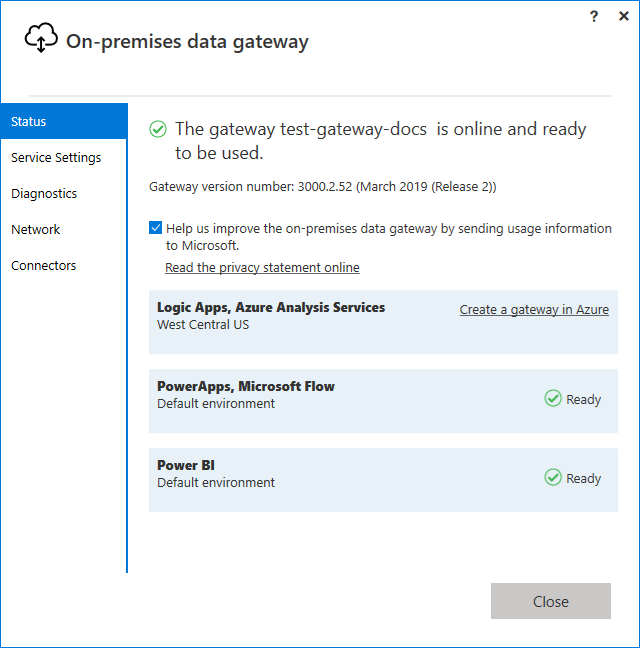
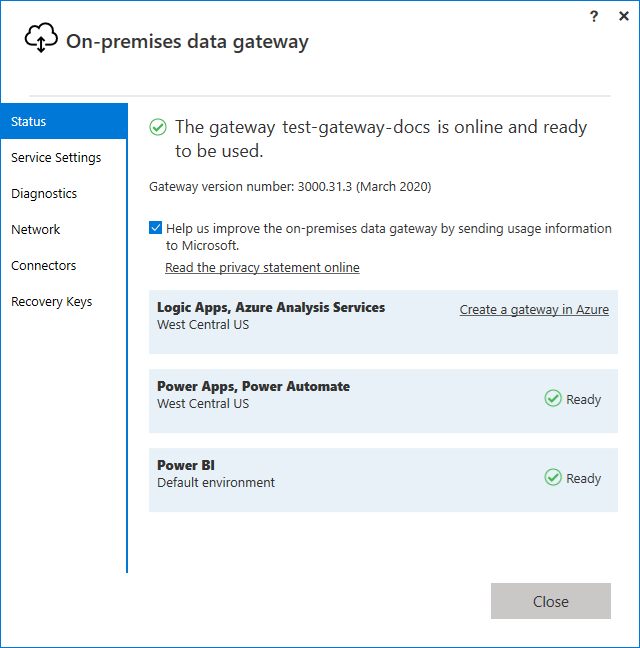
Added updates per dev input

diff --git a/data-integration/gateway/service-gateway-install.md b/data-integration/gateway/service-gateway-install.md
@@ -16,13 +16,11 @@ LocalizationGroup: Gateways
 
 # Install an on-premises data gateway
 
-[!INCLUDE [gateway-rewrite](../includes/gateway-rewrite.md)]
-
 An on-premises data gateway is software that you install in an on-premises network. The gateway facilitates access to data in that network.
 
-As we explain in the [overview](service-gateway-onprem.md), you can install a gateway either in personal mode, which applies to Power BI only, or in standard mode. We recommend standard mode. In that mode, you can install a standalone gateway or add a gateway to a cluster, which we recommend for high availability.
+As we explain in the [overview](service-gateway-onprem.md#types-of-gateways), you can install a gateway either in personal mode, which applies to Power BI only, or in standard mode. We recommend standard mode. In that mode, you can install a standalone gateway or add a gateway to a cluster, which we recommend for high availability.
 
-In this article, we show you how to install a standard gateway and then add another gateway to create a cluster.
+In this article, we show you how to install a standard gateway, how to add another gateway to create a cluster, and how to install a personal mode gateway.
 
 ## Requirements
 
@@ -49,28 +47,13 @@ In this article, we show you how to install a standard gateway and then add anot
 * If a gateway uses a wireless network, its performance might suffer.
 * You can install up to two gateways on a single computer: one running in personal mode and the other running in standard mode. You can't have more than one gateway running in the same mode on the same computer.
 
-## Download and install a gateway
+## Download and install a standard gateway
 
 Because the gateway runs on the computer that you install it on, be sure to install it on a computer that's always turned on. For better performance and reliability, we recommend that the computer is on a wired network rather than a wireless one.
 
-1. [Download the gateway](https://go.microsoft.com/fwlink/?LinkId=820925&clcid=0x409).
+1. [Download the standard gateway](https://go.microsoft.com/fwlink/?LinkId=2116849&clcid=0x409).
 
-1. In the gateway installer, select **Next**.
-
-    ![Starting gateway installation](media/service-gateway-install/gateway-installer.png)
-
-1. Select **On-premises data gateway (recommended)** > **Next**.
-
-    ![Choosing the gateway type](media/service-gateway-install/gateway-type.png)
-
-    > [!NOTE]
-    > The **On-premises data gateway (personal mode)** option can be used only with Power BI. For more information on installation, management, and use of personal gateways, see [Use personal gateways in Power BI](/power-bi/service-gateway-personal-mode).
-
-1. Select **Next**.
-
-    ![Reminder before you install](media/service-gateway-install/laptop-reminder.png)
-
-1. Keep the default installation path, accept the terms of use, and then select **Install**.
+1. In the gateway installer, keep the default installation path, accept the terms of use, and then select **Install**.
 
     ![Installing to the default installation path](media/service-gateway-install/install-path.png)
 
@@ -97,8 +80,8 @@ Because the gateway runs on the computer that you install it on, be sure to inst
 
     Also note that you can change the region that connects the gateway to cloud services. For more information, see [Set the data center region](service-gateway-data-region.md).
 
-> [!NOTE]
-> For soverign clouds, we currently only support installing gateways in the default PowerBI region of your tenant. The region picker on the installer is only supported for Public cloud.
+    > [!NOTE]
+    > For soverign clouds, we currently only support installing gateways in the default PowerBI region of your tenant. The region picker on the installer is only supported for Public cloud.
 
 1. Review the information in the final window. Because this example uses the same account for Power BI, Power Apps, and Power Automate, the gateway is available for all three services. Select **Close**.
 
@@ -122,6 +105,27 @@ To create high-availability gateway clusters, you need the November 2017 update 
 1. After you sign in to your Office 365 organization account, register the gateway. Select **Add to an existing cluster**. In the **Available gateway clusters** list, select the *primary gateway*, which is the first gateway you installed. Enter the recovery key for that gateway. Select **Configure**.
 
     ![Adding a gateway to a cluster](media/service-gateway-install/add-cluster.png)
+
+## Download and install a personal mode gateway
+
+1. [Download the personal mode gateway](https://go.microsoft.com/fwlink/?LinkId=2116848&clcid=0x409).
+
+1. In the gateway installer, enter the default installation path, accept the terms of use, and then select **Install**.
+
+    ![Installing personal mode to the installation path](media/service-gateway-install/install-path-personal.png)
+
+1. Enter the email address for your Office 365 organization account, and then select **Sign in**.
+
+    ![Entering your personal mode email address](media/service-gateway-install/email-address-personal.png)
+
+    > [!NOTE]
+    > You need to sign in with either a work account or a school account. This account is an *organization account*. If you signed up for an Office 365 offering and didn't supply your work email address, your address might look like nancy\@contoso.onmicrosoft.com. Your account is stored within a tenant in Azure AD. In most cases, your Azure AD account’s User Principal Name (UPN) will match the email address.  
+
+    The gateway is associated with your Office 365 organization account. You manage gateways from within the associated service.
+
+1.  You're now signed in to your account. Select **Close**.
+
+    ![Gateway summary](media/service-gateway-install/summary-screen-personal.png)
 
 ## Next steps
 

diff --git a/data-integration/gateway/service-gateway-onprem.md b/data-integration/gateway/service-gateway-onprem.md
@@ -15,7 +15,8 @@ LocalizationGroup: Gateways
 
 # What is an on-premises data gateway?
 
-[!INCLUDE [gateway-rewrite](../includes/gateway-rewrite.md)]
+>[!Note]
+Currently, Microsoft actively supports only the last six releases of the on-premises data gateway.
 
 The on-premises data gateway acts as a bridge. It provides quick and secure data transfer between on-premises data, which is data that isn't in the cloud, and several Microsoft cloud services. These services include Power BI, Power Apps, Power Automate, Azure Analysis Services, and Azure Logic Apps.
 
@@ -51,6 +52,20 @@ There are four main steps for using a gateway.
   - Read operations have a 2-MB request limit and an 8-MB compressed data response limit.
 - While using the gateway with Power BI in Direct Query Mode, there is a 16-MB uncompressed data response limit.
 - For information about installation considerations, see [Related considerations](service-gateway-install.md#related-considerations).
+
+## Gateway documentation
+
+This document contains general information about the on-premises data gateway that applies to all services that the gateway supports. You can obtain more on-premises data gateway information for specific products by visiting the following product-specific sites.
+
+* [On-premises data gateway in-depth - Power BI](https://docs.microsoft.com/en-us/power-bi/service-gateway-onprem-indepth/)
+
+* [Using an on-premises data gateway in Power Platform Dataflows](https://docs.microsoft.com/en-us/powerapps/maker/common-data-service/using-dataflows-with-on-premises-data)
+
+* [Manage connections in Power Automate](https://docs.microsoft.com/en-us/power-automate/add-manage-connections)
+
+* [Connect to on-premises data sources from Azure Logic Apps](https://docs.microsoft.com/en-us/azure/logic-apps/logic-apps-gateway-connection)
+
+* [Connecting to on-premises data sources with On-premises data gateway - Azure Analysis Services](https://docs.microsoft.com/en-us/azure/analysis-services/analysis-services-gateway)
 
 ## Next steps
 

diff --git a/data-integration/gateway/service-gateway-update.md b/data-integration/gateway/service-gateway-update.md
@@ -14,8 +14,6 @@ LocalizationGroup: Gateways
 
 # Update an on-premises data gateway
 
-[!INCLUDE [gateway-rewrite](../includes/gateway-rewrite.md)]
-
 We aim to release an update every month for on-premises data gateways. Each of these updates includes new features along with the latest Mashup Engine.
 
 > [!NOTE]
@@ -25,7 +23,7 @@ We aim to release an update every month for on-premises data gateways. Each of t
 
 To update a gateway:
 
-1. Download the [latest gateway](https://go.microsoft.com/fwlink/?LinkId=820925&clcid=0x409) and run the installation program. If the version you're trying to install isn't newer than the version already installed, you'll receive one of the following error messages.
+1. Download the latest [standard mode gateway](https://go.microsoft.com/fwlink/?LinkId=2116849&clcid=0x409) or [personal mode gateway](https://go.microsoft.com/fwlink/?LinkId=2116848&clcid=0x409) and run the installation program. If the version you're trying to install isn't newer than the version already installed, you'll receive one of the following error messages.
 
    ![The update version is the same as the installed version](media/service-gateway-update/gateway-same-version.png)
 

diff --git a/data-integration/gateway/service-gateway-app.md b/data-integration/gateway/service-gateway-app.md
@@ -47,6 +47,8 @@ After you sign in to your Office 365 account, you have access to the following f
 |Network |Network status |Indicates whether the gateway can reach outside your network. The network status is displayed as either Connected or Disconnected. |
 |Network |HTTPS mode |Forces the gateway to communicate with Azure Service Bus by using [HTTPS instead of TCP](service-gateway-communication.md#force-https-communication-with-azure-service-bus) when turned on. |
 |Connectors |Custom data connectors | You can connect to and access data from Power BI by using custom data connectors that you develop. |
+|Recovery Keys |Recovery Keys |Changes the [recovery key](service-gateway-recovery-key.md) you specified when installing the on-premises data gateway. This feature does not appear until you have signed in. Not available in the on-premises data gateway (personal mode).|
+| | | |
 
 ## Next steps
 

diff --git a/data-integration/gateway/service-gateway-performance.md b/data-integration/gateway/service-gateway-performance.md
@@ -13,9 +13,6 @@ LocalizationGroup: Gateways
 
 # Monitor and optimize on-premises data gateway performance
 
-[!INCLUDE [gateway-rewrite](../includes/gateway-rewrite.md)]
-
-
 ## Gateway performance monitoring (public preview)
 
 To monitor performance, gateway admins have traditionally depended on manually monitoring performance counters through the Windows Performance Monitor tool. We now offer additional query logging and a [Gateway Performance PBI template file](https://download.microsoft.com/download/D/A/1/DA1FDDB8-6DA8-4F50-B4D0-18019591E182/GatewayPerformanceMonitoring.pbit) to visualize the results. This feature provides new insights into gateway usage. You can use it to troubleshoot slow-performing queries.

diff --git a/data-integration/gateway/service-gateway-monthly-updates.md b/data-integration/gateway/service-gateway-monthly-updates.md
@@ -14,8 +14,6 @@ LocalizationGroup: Gateways
 
 # Previous monthly updates to the on-premises data gateways
 
-[!INCLUDE [gateway-rewrite](../includes/gateway-rewrite.md)]
-
 This article describes the four previous updates for the on-premises data gateways and provides links for downloading any of these versions. For the most current release of the gateways (February 2020), check out our [recent blog post](https://powerbi.microsoft.com/blog/on-premises-data-gateway-February-2020-update-is-now-available/) or download the latest versions:
 
 - Download the [latest on-premises data gateway](https://download.microsoft.com/download/D/A/1/DA1FDDB8-6DA8-4F50-B4D0-18019591E182/GatewayInstall.exe)

diff --git a/data-integration/gateway/service-gateway-log-files.md b/data-integration/gateway/service-gateway-log-files.md
@@ -13,8 +13,6 @@ LocalizationGroup: Gateways
 
 # Configure log files for the on-premises data gateway
 
-[!INCLUDE [gateway-rewrite](../includes/gateway-rewrite.md)]
-
 There are three categories of service logs for an on-premises data gateway: information, error, and network. This categorization provides a troubleshooting experience that lets you focus on the specific area for an error or issue. You can see the three categories `GatewayInfo.log`, `GatewayErrors.log`, and `GatewayNetwork.log` in the following excerpt from the gateway configuration file *Microsoft.PowerBI.EnterpriseGateway.exe.config*.
 
 ```xml

diff --git a/data-integration/gateway/service-gateway-service-account.md b/data-integration/gateway/service-gateway-service-account.md
@@ -14,8 +14,6 @@ LocalizationGroup: Gateways
 
 # Change the on-premises data gateway service account
 
-[!INCLUDE [gateway-rewrite](../includes/gateway-rewrite.md)]
-
 The on-premises data gateway is configured to use *NT SERVICE\PBIEgwService* for the Windows service sign-in credential. In the context of the machine on which you install the gateway, the account by default has the right of Log on as a service.
 
 This service account isn't the account used to connect to on-premises data sources. It also isn't the work or school account that you sign in to cloud services with.

diff --git a/data-integration/gateway/service-gateway-onprem-indepth.md b/data-integration/gateway/service-gateway-onprem-indepth.md
@@ -15,8 +15,6 @@ LocalizationGroup: Gateways
 
 # On-premises data gateway architecture
 
-[!INCLUDE [gateway-rewrite](../includes/gateway-rewrite.md)]
-
 Users in your organization can access on-premises data to which they already have access authorization. But before those users can connect to your on-premises data source, an on-premises data gateway needs to be installed and configured.
 
 The gateway facilitates quick and secure behind-the-scenes communication. This communication flows from a user in the cloud to your on-premises data source and then back to the cloud.

diff --git a/data-integration/gateway/service-gateway-manage.md b/data-integration/gateway/service-gateway-manage.md
@@ -16,8 +16,6 @@ LocalizationGroup: Gateways
 
 # Manage an on-premises data gateway
 
-[!INCLUDE [gateway-rewrite](../includes/gateway-rewrite.md)]
-
 After you install an on-premises data gateway, you manage it based on your requirements. Because each service might integrate gateways differently, the management options differ depending on the service. Although you can manage gateways from any service, the articles in this section refer to the **Manage gateways** page in Power BI.
 
 ![How to select "Manage gateways"](media/service-gateway-manage/manage-gateways.png)

diff --git a/data-integration/gateway/service-gateway-high-availability-clusters.md b/data-integration/gateway/service-gateway-high-availability-clusters.md
@@ -13,8 +13,6 @@ LocalizationGroup: Gateways
 
 # Manage on-premises data gateway high-availability clusters and load balancing
 
-[!INCLUDE [gateway-rewrite](../includes/gateway-rewrite.md)]
-
 You can use an on-premises data gateway cluster to avoid single points of failure and to load balance traffic across gateways in a cluster. To add new gateway members to a gateway cluster, see [Add another gateway to create a cluster](service-gateway-install.md#add-another-gateway-to-create-a-cluster).
 
 ## High-availability clusters for an on-premises data gateway

diff --git a/data-integration/gateway/service-gateway-powershell-support.md b/data-integration/gateway/service-gateway-powershell-support.md
@@ -13,8 +13,6 @@ LocalizationGroup: Gateways
 
 # PowerShell support for on-premises data gateway clusters
 
-[!INCLUDE [gateway-rewrite](../includes/gateway-rewrite.md)]
-
 PowerShell scripts are available in the the [PowerShell gallery](https://www.powershellgallery.com/packages/OnPremisesDataGatewayHAMgmt/3000.15.18/). You must be using PowerShell version 5 or newer for these scripts to work correctly. You can use the PowerShell scripts to perform the following operations:
 
 - Retrieve the list of gateway clusters available for a user.
